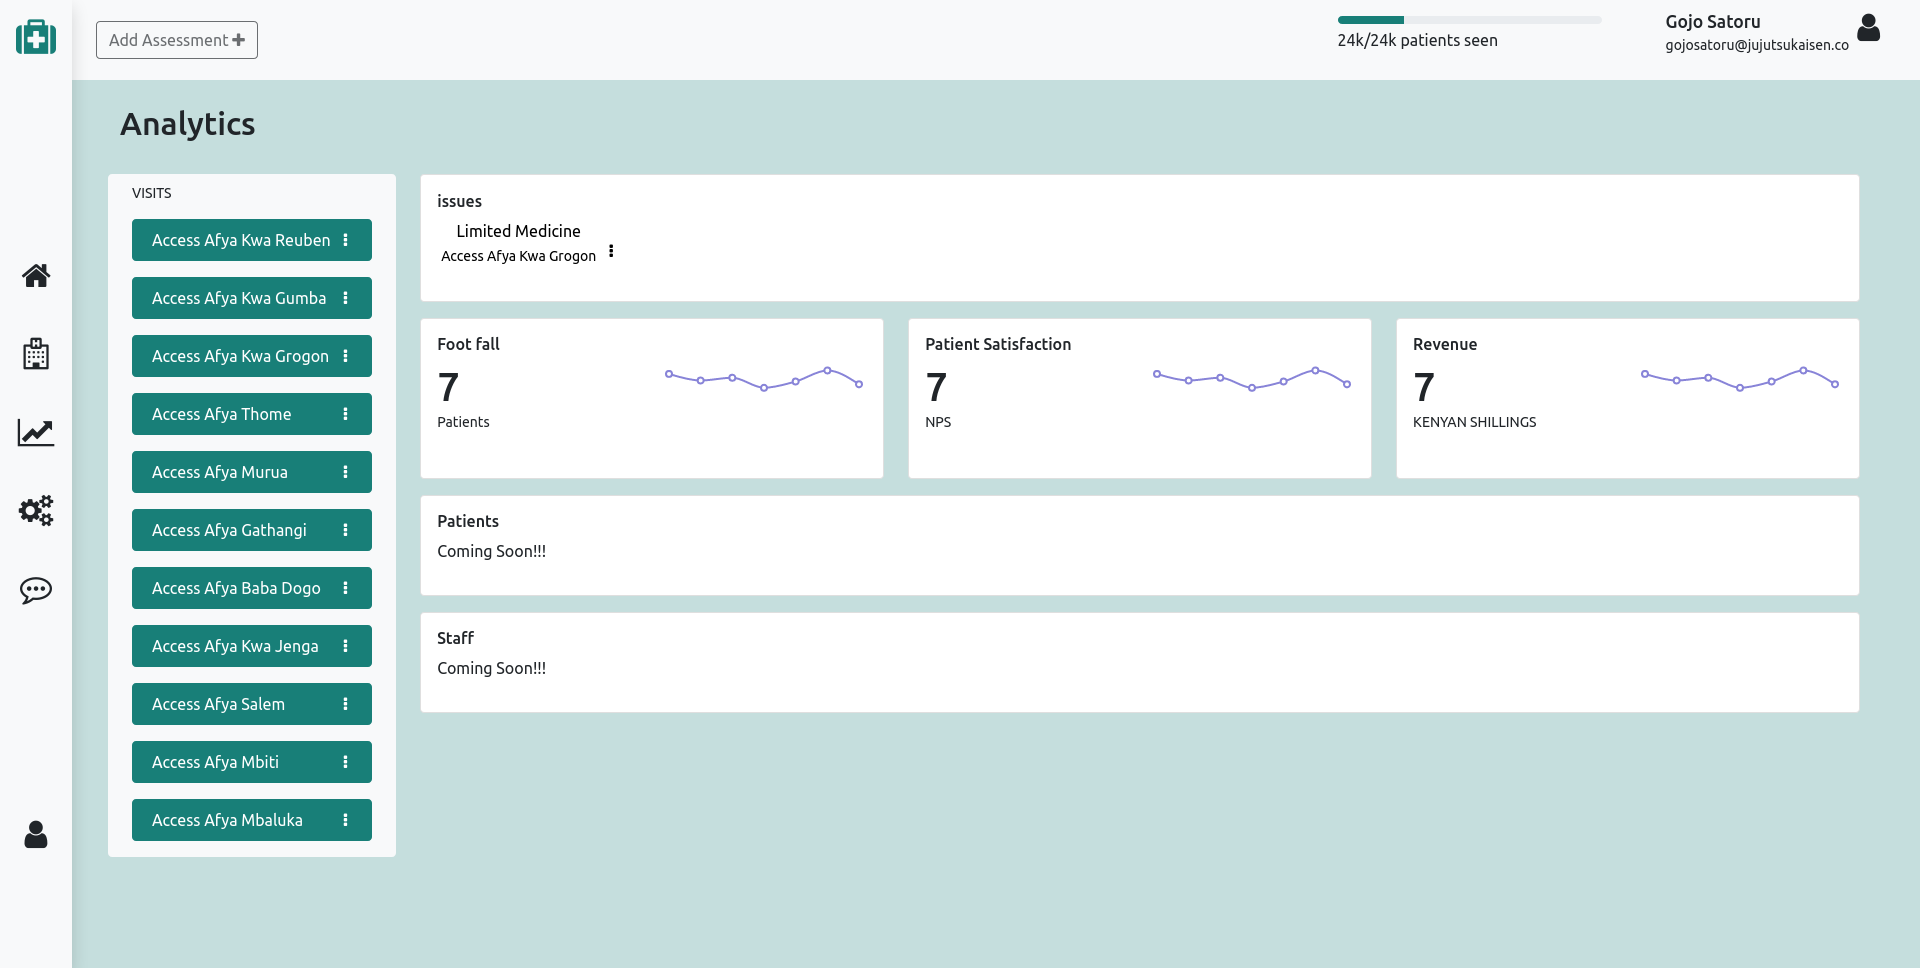
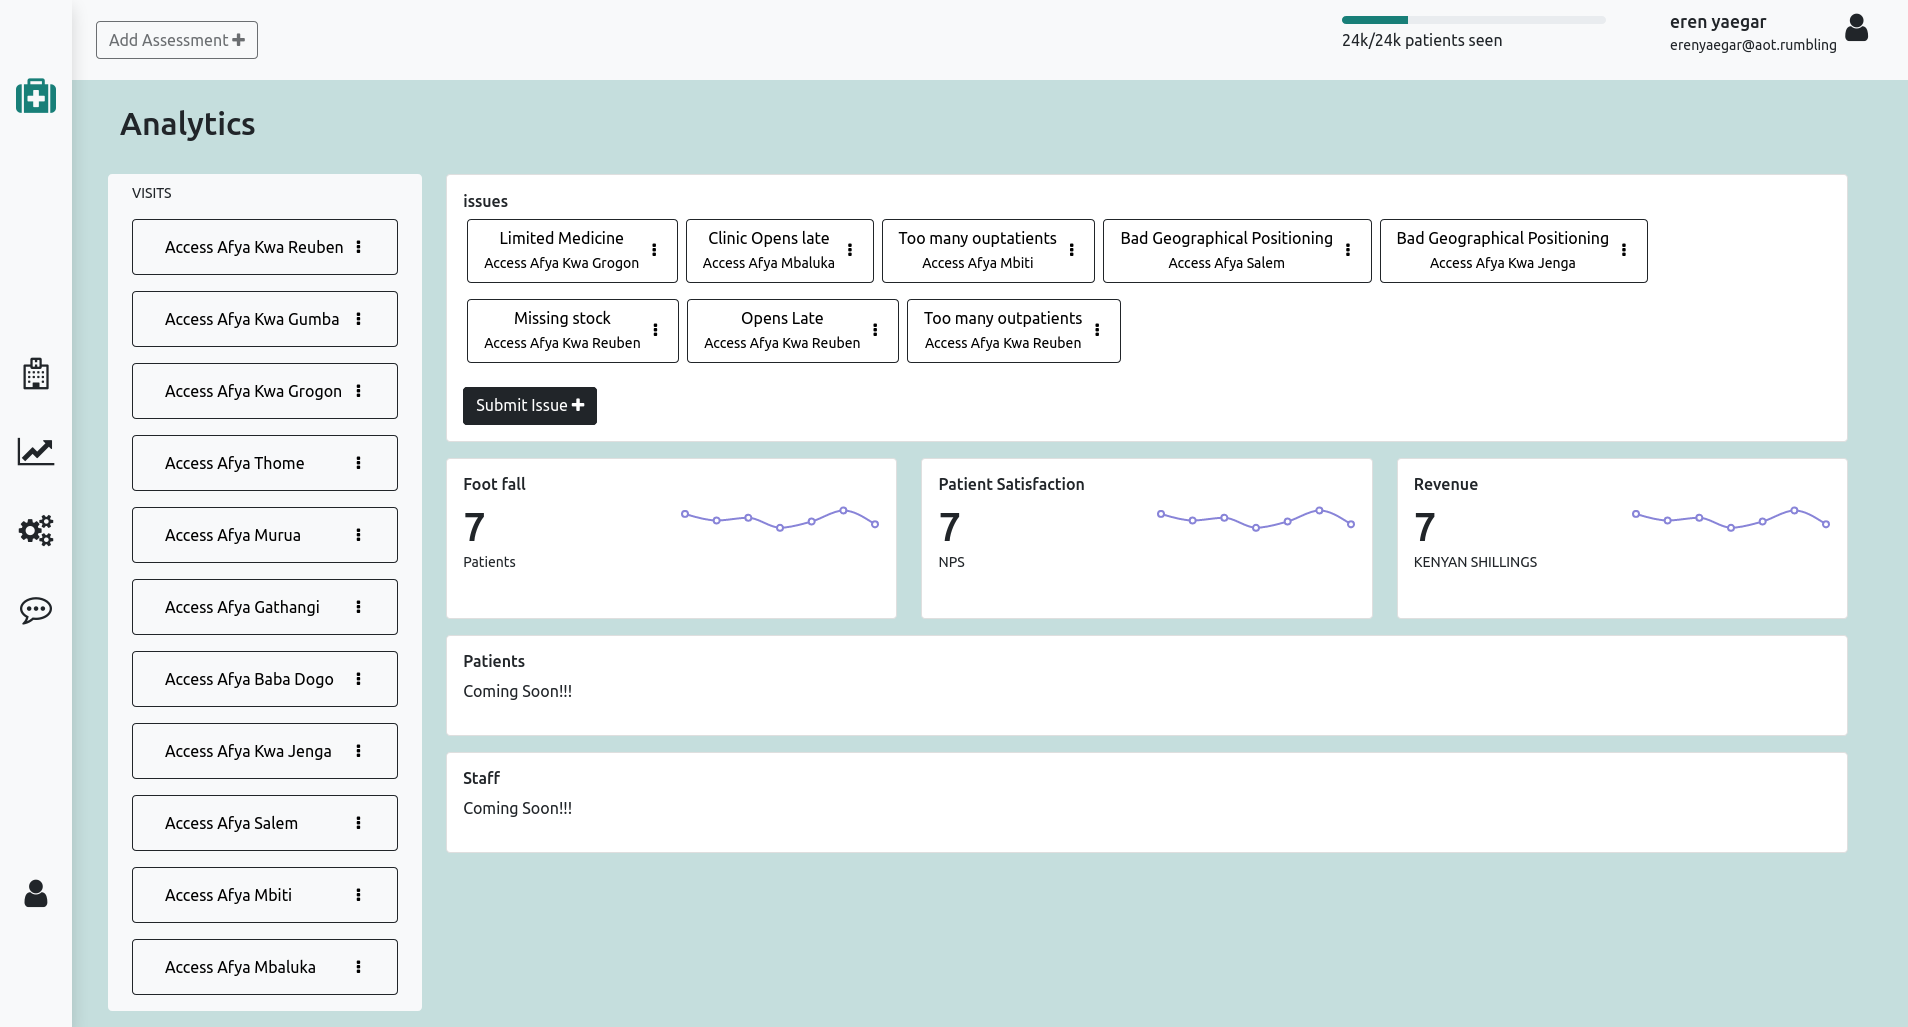
[ENHANCEMENT] : add issue

diff --git a/frontend/src/Pages/Analytics/Analytics.js b/frontend/src/Pages/Analytics/Analytics.js
@@ -4,12 +4,18 @@ import Card from "../../Components/Card/Card"
 import ButtonDropDown from "../../Components/buttonDropDown"
 import MiniChart from "../../Components/MiniChart";
 import Table from "../../Components/Table/table";
-const Analytics = ({ allClinics, allIssues,meResult }) => {
+import { useForm } from 'react-hook-form'
+import { yupResolver } from '@hookform/resolvers/yup';
+import * as Yup from 'yup';
+import IssueModal from "../../Components/IssueModal";
+import { useMutation } from "@apollo/client";
+import { ADD_ISSUE } from "../../graphql/mutations";
+import { useEffect } from "react";
+import { useRef } from 'react';
+const Analytics = (props) => {
 
-    if (!meResult.data) {
-        return (<>loading...</>)
-    }
-
+    const { setMessage, setTitle, allClinics, allIssues, meResult } = props;
+    const closeModal = useRef(null);
     const dummydata = [
         {
             name: "Page A",
@@ -76,13 +82,56 @@ const Analytics = ({ allClinics, allIssues,meResult }) => {
             title: 'Reported Issues',
         }
     ]
-    const addIssue = [
-        {
-            id: 1,
-            title: 'Add Issue',
-            name: 'Add Issue'
+
+    
+    const validationSchema = Yup.object().shape({
+        title: Yup.string()
+            .required('Title is required')
+            .min(5, 'Title must be atleast 5 characters'),
+    })
+
+    const { register, formState: { errors }, handleSubmit } = useForm({
+        resolver: yupResolver(validationSchema)
+    });
+
+    // create issue
+    const [createIssue,result] = useMutation(ADD_ISSUE, {
+        onError: (error) => {
+            setMessage(error.message);
+            setTitle('Error')
+            setTimeout(() => {
+                setTitle(null)
+                setMessage(null)
+            }, 6000)
         }
-    ]
+    });
+
+    useEffect(() => {
+        if(result.data) {
+            setMessage('Save succesfull!');
+            setTitle('Save succesfull')
+            setTimeout(() => {
+                setTitle(null)
+                setMessage(null)
+                // Simulate a click to refresh page
+                closeModal.current?.click();
+            }, 2000)
+
+        }
+    })
+    const onSubmit = async data => {
+        const { branch, title, description } = data;
+        const filedBy = meResult.data.me.id;
+        const isSolved = false;
+        createIssue({ variables: { branch, title, description, filedBy, isSolved } });
+
+
+    }
+
+
+    if (!meResult.data) {
+        return (<>loading...</>)
+    }
     return (
         <>
             <Layout meResult={meResult.data.me && meResult.data.me}>
@@ -96,12 +145,18 @@ const Analytics = ({ allClinics, allIssues,meResult }) => {
                             <main className="row  mb-3">
                                 <div className="col">
                                     <Card title="issues">
-                                        <div className="row overflow-auto flex-row ms-1 mb-3">
+                                        <div className="row overflow-auto flex-row ms-1 mb-2">
                                             {allIssues.data && allIssues.data.issues.map((issue) =>
-                                                <ButtonDropDown object={issue} className='w-max-content me-2 mb-3 ms-3 btn-custom' />
+                                                <ButtonDropDown object={issue} className='w-max-content me-2 mb-3 btn-custom' key={issue.id}/>
                                             )}
                                         </div>
-                                        <button type="button mt-n5 ms-2" className="btn btn-outline-dark disabled">Add Issue <i className="fa fa-plus" aria-hidden="true"></i></button>
+                                        <IssueModal
+                                            allClinics={allClinics}
+                                            register={register}
+                                            onSubmit={onSubmit}
+                                            errors={errors}
+                                            handleSubmit={handleSubmit}
+                                            closeModal={closeModal} />
                                     </Card>
                                 </div>
                             </main>
@@ -131,14 +186,14 @@ const Analytics = ({ allClinics, allIssues,meResult }) => {
                             <main className="row mb-3">
                                 <div className="col">
                                     <Card title="Patients">
-                                        <Table tableHeaders={tableHeaders}/>
+                                        <Table tableHeaders={tableHeaders} />
                                     </Card>
                                 </div>
                             </main>
                             <main className="row">
                                 <div className="col">
                                     <Card title="Staff">
-                                        <Table tableHeaders={tableHeaders}/>
+                                        <Table tableHeaders={tableHeaders} />
                                     </Card>
                                 </div>
                             </main>

diff --git a/frontend/src/Components/IssueModal.js b/frontend/src/Components/IssueModal.js
@@ -1,0 +1,65 @@
+import React from "react";
+const IssueModal = ({ closeModal, allClinics, register, handleSubmit, onSubmit, errors }) => {
+
+    return (
+        <>
+            {/* <!-- Button trigger modal --> */}
+            <button type="button mt-n5 ps-5" className="btn btn-dark" data-bs-toggle="modal" data-bs-target="#exampleModal">Submit Issue <i className="fa fa-plus" aria-hidden="true"></i></button>
+
+            {/* <!-- Modal --> */}
+            <div className="modal fade" id="exampleModal" tabIndex="-1" aria-labelledby="exampleModalLabel" aria-hidden="true">
+                <div className="modal-dialog">
+                    <div className="modal-content">
+                        <div className="modal-header">
+                            <h5 className="modal-title" id="exampleModalLabel">Add Issue</h5>
+                            <button type="button" className="btn-close" data-bs-dismiss="modal" aria-label="Close"></button>
+                        </div>
+                        <form onSubmit={handleSubmit(onSubmit)}>
+                            <div className="modal-body">
+                                <label htmlFor="name" className="form-label">Branch *</label>
+                                <select className="form-select mb-3" aria-label="Default select example">
+                                    {allClinics.data && allClinics.data.clinics.map((clinic) =>
+                                        <option
+                                            key={clinic.id}
+                                            value={clinic.id}
+                                            {...register("branch", {
+                                                required: "Required"
+                                            })}>{clinic.name}</option>
+                                    )}
+                                </select>
+                                <label htmlFor="name" className="form-label">Staff *</label>
+                                <select className="form-select mb-3" aria-label="Default select example" disabled>
+
+                                </select>
+                                <label htmlFor="name" className="form-label">Title *</label>
+                                <input
+                                    className="form-control mb-3"
+                                    type="text"
+                                    {...register("title", {
+                                        required: "Required"
+                                    })}
+                                    required />
+                                {(errors.title) && <p className="text-danger">{errors.title.message}</p>}
+                                <label htmlFor="password" className="form-label">Description *</label>
+                                <textarea
+                                    className="form-control mb-3"
+                                    type="textArea"
+                                    {...register("description", {
+                                        required: "Required"
+                                    })}
+                                    required />
+                                <div className="modal-footer">
+                                    <button type="button" className="btn btn-secondary" data-bs-dismiss="modal" ref={closeModal}>Cancel</button>
+                                    <button type="submit" className="btn btn-success">Save Issue</button>
+                                </div>
+                            </div>
+                        </form>
+                    </div>
+                </div>
+            </div>
+        </>
+    )
+
+}
+
+export default IssueModal;

diff --git a/frontend/src/Components/InnerSideBar/InnerSideBar.js b/frontend/src/Components/InnerSideBar/InnerSideBar.js
@@ -10,16 +10,18 @@ const InnerSideBar = (props) => {
     }
     return (
         <>
-            <div class="d-flex flex-sm-column flex-row flex-grow-1 align-items-center align-items-sm-start px-3 pt-2 text-white">
-                <NavLink to="/" class="d-flex align-items-start pb-sm-3 mb-md-0 me-md-auto text-dark text-decoration-none">
+            <div className="d-flex flex-sm-column flex-row flex-grow-1 align-items-center align-items-sm-start px-3 pt-2 text-white">
+                <NavLink to="/analytics" class="d-flex align-items-start pb-sm-3 mb-md-0 me-md-auto text-dark text-decoration-none">
                     <small>VISITS</small>
                 </NavLink>
-                <ul class="nav nav-pills flex-sm-column flex-row flex-nowrap flex-shrink-1 flex-sm-grow-0 flex-grow-1 mb-sm-auto mb-0 justify-content-center align-items-center align-items-sm-start" id="menu">
+                <ul className="nav nav-pills flex-sm-column flex-row flex-nowrap flex-shrink-1 flex-sm-grow-0 flex-grow-1 mb-sm-auto mb-0 justify-content-center align-items-center align-items-sm-start" id="menu">
                     {allClinics.data && allClinics.data.clinics.map((clinic) =>
                         <li className="nav-item dropdown btn-group mb-3 w-100">
-                            <Link className="nav-link active w-custom">
-                                <ButtonDropDown object={clinic} />
-                            </Link>
+                            <div className="btn-custom w-100">
+                                <Link className="nav-link">
+                                    <ButtonDropDown object={clinic} />
+                                </Link>
+                            </div>
                         </li>
                     )}
                 </ul>

diff --git a/frontend/src/Components/buttonDropDown.js b/frontend/src/Components/buttonDropDown.js
@@ -8,7 +8,7 @@ const ButtonDropDown = (props) => {
 
     return (
         <>
-            <div className={`${className} d-flex justify-content-between mb-3`}>
+            <div className={`${className} d-flex justify-content-between`}>
 
                 <button type="button" className=" btn-style-none"><span className="text-left">{object.name}{object.title}</span>
                 {branch && <p className="mb-0"><small>{branch.name}</small></p>}</button>
@@ -16,7 +16,7 @@ const ButtonDropDown = (props) => {
                 <button type="button" className=" btn-style-none dropdown-toggle dropdown-toggle-split" data-bs-toggle="dropdown" aria-expanded="false">
                     <i className="fa fa-ellipsis-v text-right" aria-hidden="true"></i>
                 </button>
-                <ul class="dropdown-menu">
+                <ul className="dropdown-menu">
                     <li><Link className="dropdown-item" to="/comingsoon">View More</Link></li>
                 </ul>
             </div>

diff --git a/frontend/src/index.scss b/frontend/src/index.scss
@@ -100,5 +100,12 @@ border: 1px solid transparent;
 padding: 0.375rem 0.75rem;
 font-size: 1rem;
 border-radius: 0.25rem;
-transition: color 0.15s ease-in-out, background-color 0.15s ease-in-out, border-color 0.15s ease-in-out, box-shadow 0.15s ease-in-out;  
+transition: color 0.15s ease-in-out, background-color 0.15s ease-in-out, border-color 0.15s ease-in-out, box-shadow 0.15s ease-in-out;
+
+  &:hover{
+    transform: scale(1.1);
+    transform-origin: 50% 50%;
+    transition: all 0.3s ease-out;
+  }
 }
+

diff --git a/frontend/src/graphql/mutations/index.js b/frontend/src/graphql/mutations/index.js
@@ -21,3 +21,13 @@ mutation login($email: String!, $password: String) {
   }
 }
 `
+export const ADD_ISSUE = gql`
+mutation ($branch: String!, $title: String!, $description: String!, $filedBy: String!, $isSolved: Boolean!, $staff: String) {
+  createIssue(branch: $branch, title: $title, description: $description, filedBy: $filedBy, isSolvSed: $isSolved, staff: $staff) {
+    id
+    title
+    description
+    isSolved
+    
+  }
+}`

diff --git a/frontend/src/App.js b/frontend/src/App.js
@@ -46,7 +46,9 @@ function App() {
               <Analytics
                 allClinics={clinicsResult}
                 allIssues={issuesResult}
-                meResult={meResult} />
+                meResult={meResult}
+                setTitle={setTitle} 
+                setMessage={setErrorMessage}  />
 
           </Route>
           <Route exact path='/'>

diff --git a/frontend/public/index.html b/frontend/public/index.html
@@ -24,7 +24,7 @@
       work correctly both with client-side routing and a non-root public URL.
       Learn how to configure a non-root public URL by running `npm run build`.
     -->
-    <title>React App</title>
+    <title>Access Afya Analytics</title>
   </head>
   <body>
     <noscript>You need to enable JavaScript to run this app.</noscript>
